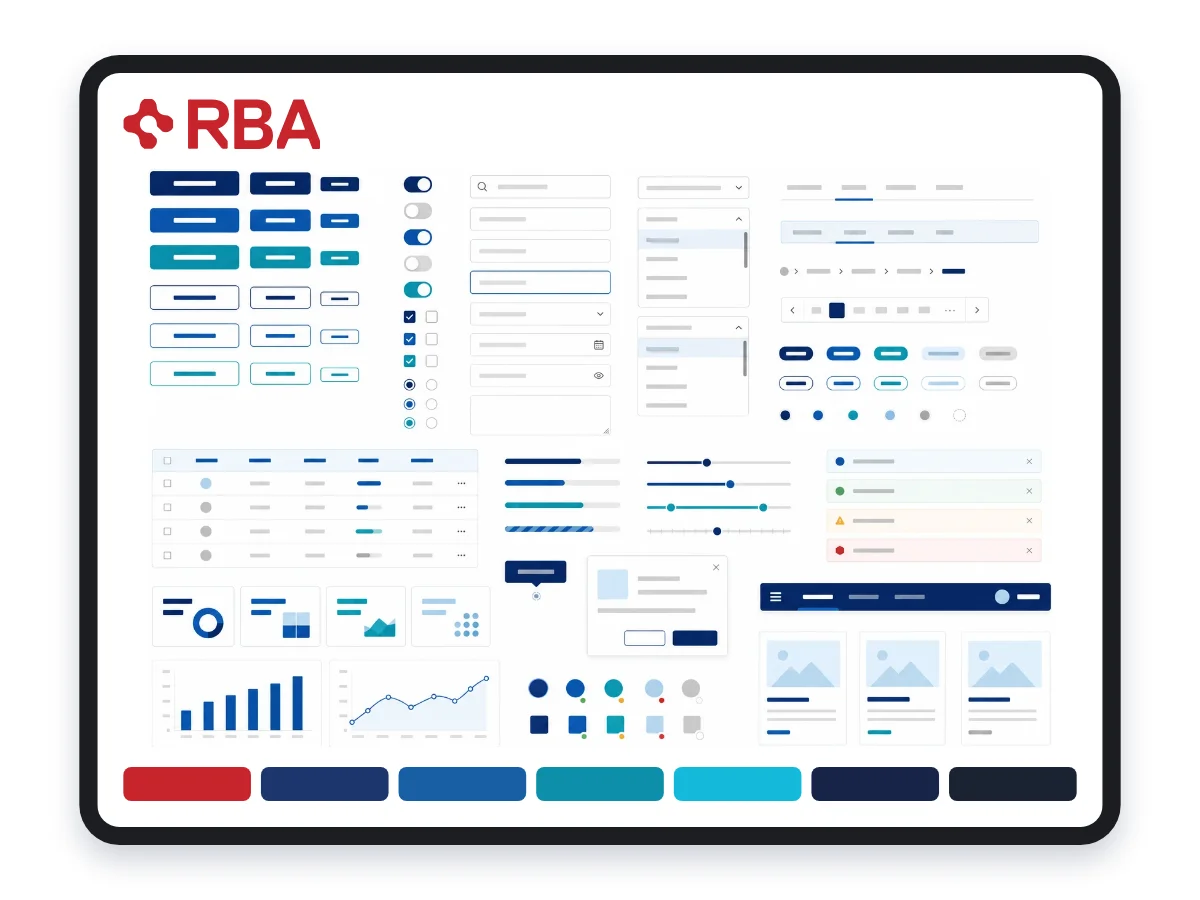
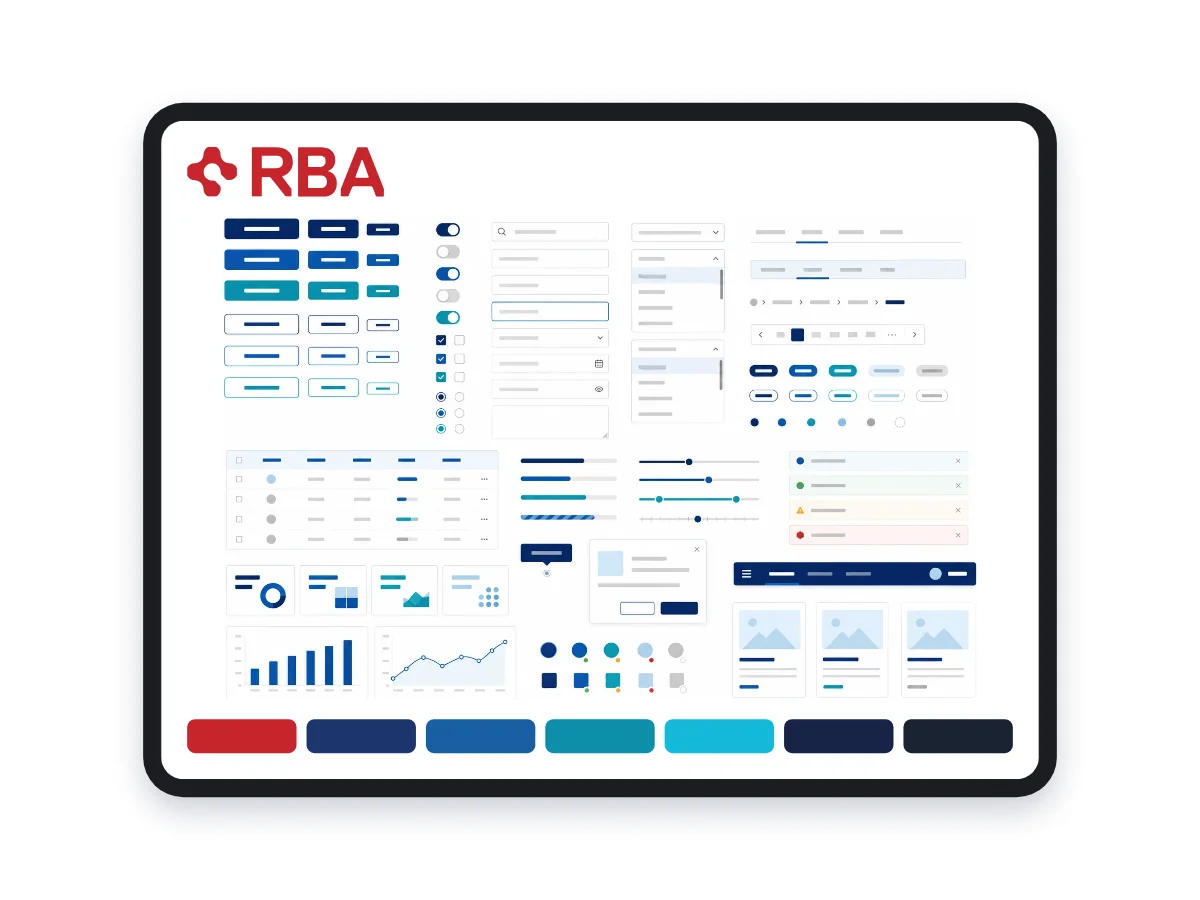
All three devices on the shelf at the same height
The tablet and the handsets are now sized to the laptop's height rather
than to a margin of their own: laptop 1156x694, tablet 914x694, phones
1037x694. Tops and bottoms line up across the three cards.

A single shared margin could not do this. The laptop and the handsets are
both wider than the card, so a margin fixes their width and lets height
fall out; the tablet is 4:3 inside a 4:3 frame, so the same margin fixes
both. At a 103px margin the handsets came out 665 tall against the other
two at 694, because they hit the width limit first. So the laptop's
rendered height is read back and the other two are fitted to it, with a
60px floor on the side margin in case a future source is wider still.

Innovators Studio is untouched, as before.

diff --git a/index.html b/index.html
@@ -548,7 +548,7 @@
                not a disabled link, so nothing is focusable or hoverable. -->
           <div class="shelf-item is-static reveal">
             <div class="shelf-thumb">
-              <img decoding="async" loading="lazy" src="img/shelf/connect-design-system.webp?v=12" width="1200" height="900"
+              <img decoding="async" loading="lazy" src="img/shelf/connect-design-system.webp?v=13" width="1200" height="900"
                    alt="A large landscape tablet filling the frame with the Connect Design System: the red RBA logo in the top left of the screen, then a full sheet of interface components, buttons, toggles, inputs, tables, sliders, charts and cards in the brand blues, with the seven core palette swatches in a row beneath." />
             </div>
             <h3>Connect design system</h3>
@@ -575,7 +575,7 @@
 
           <a class="shelf-item reveal" href="case-study/enterprise-consulting.html#dr-pepper" aria-label="See the Dr Pepper Snapple fundraising app in the consulting-years case study">
             <div class="shelf-thumb">
-              <img decoding="async" loading="lazy" src="img/shelf/dr-pepper.webp?v=11" width="1200" height="900"
+              <img decoding="async" loading="lazy" src="img/shelf/dr-pepper.webp?v=12" width="1200" height="900"
                    alt="Three white iPhones filling the frame, running the Dr Pepper Snapple United Way app: a Project Give sign-in screen with a countdown, a campaign progress ring at 75 percent, and a team leaderboard." />
             </div>
             <h3>Dr Pepper Snapple fundraising app</h3>
